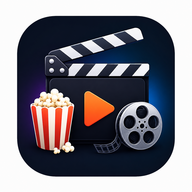
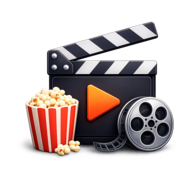
Atualizando icone para iphone e checagem de novidades

diff --git a/app.js b/app.js
@@ -363,6 +363,58 @@ function unAbandonShow(tmdbId) {
  save(); openShowDetail(tmdbId); renderAll();
 }
 
+// ─── Atualizar dados da série (silencioso, sem alert) ──────────────
+async function updateShowDataSilent(tmdbId) {
+ const show = state.shows.find(s => s.tmdbId === tmdbId);
+ if (!show) return;
+ try {
+  const data = await tmdbFetch(`/tv/${tmdbId}`);
+  if (!data) return;
+  show.name = data.name;
+  show.poster = data.poster_path || show.poster;
+  show.overview = (data.overview || '').slice(0, 300);
+  show.status = data.status;
+  show.totalSeasons = data.number_of_seasons || show.totalSeasons;
+  show.totalEpisodes = data.number_of_episodes || show.totalEpisodes;
+
+  for (let i = 1; i <= show.totalSeasons; i++) {
+   try {
+    const sData = await tmdbFetch(`/tv/${tmdbId}/season/${i}`);
+    if (!sData || !sData.episodes) continue;
+    const existing = show.seasons.find(s => s.number === i);
+    if (existing) {
+     sData.episodes.forEach(ep => {
+      const existingEp = existing.episodes.find(e => e.number === ep.episode_number);
+      if (!existingEp) {
+       existing.episodes.push({
+        number: ep.episode_number,
+        name: ep.name || `Episódio ${ep.episode_number}`,
+        airDate: ep.air_date || '',
+        watched: false
+       });
+      } else {
+       existingEp.name = ep.name || existingEp.name;
+       existingEp.airDate = ep.air_date || existingEp.airDate;
+      }
+     });
+    } else {
+     show.seasons.push({
+      number: i,
+      name: sData.name || `Temporada ${i}`,
+      episodes: sData.episodes.map(ep => ({
+       number: ep.episode_number,
+       name: ep.name || `Episódio ${ep.episode_number}`,
+       airDate: ep.air_date || '',
+       watched: false
+      }))
+     });
+    }
+   } catch { }
+  }
+  save(); renderAll();
+ } catch (err) { /* silencioso */ }
+}
+
 // ─── Atualizar dados da série (novos episódios) ────────────────────
 async function updateShowData(tmdbId) {
  const show = state.shows.find(s => s.tmdbId === tmdbId);
@@ -444,13 +496,21 @@ async function checkNewEpisodes() {
 
  if (!novidades.length) {
   byId('novidadesList').innerHTML = '<div class="empty">Nenhum episódio novo nos últimos 7 dias para suas séries.</div>';
-  // Tentar atualizar dados das séries ativas
-  if (activeShows.length && tmdbConfigured()) {
+  // Tentar atualizar dados das séries ativas (apenas se não veio de uma re-verificação)
+  if (!checkNewEpisodes._recheck && activeShows.length && tmdbConfigured()) {
    if (confirm('Deseja atualizar os dados das séries para verificar novos episódios?')) {
+    let atualizadas = 0;
     for (const show of activeShows.slice(0, 5)) {
-     await updateShowData(show.tmdbId);
+     await updateShowDataSilent(show.tmdbId);
+     atualizadas++;
     }
-    checkNewEpisodes();
+    if (atualizadas > 0) {
+     alert(`Dados de ${atualizadas} série(s) atualizados.`);
+    }
+    // Re-verificar novidades sem perguntar de novo
+    checkNewEpisodes._recheck = true;
+    await checkNewEpisodes();
+    checkNewEpisodes._recheck = false;
    }
   }
   return;
